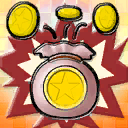
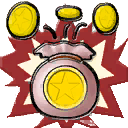
boo house + lottery image change, and show MP1 on main frame by default

diff --git a/main.py b/main.py
@@ -81,6 +81,9 @@ class App(customtkinter.CTk):
     
         # set default values
         self.mario_party_1_button.configure(state="disabled")
+        self.current_game_frame = self.create_mp1_frame()
+        self.current_game_frame.grid(row=0, column=1, padx=(0, 0), pady=(0, 0), rowspan=3, sticky="nsew")
+
 
     def reset_game_frames(self):
         # Reset the main frame to remove any existing game-specific widgets
